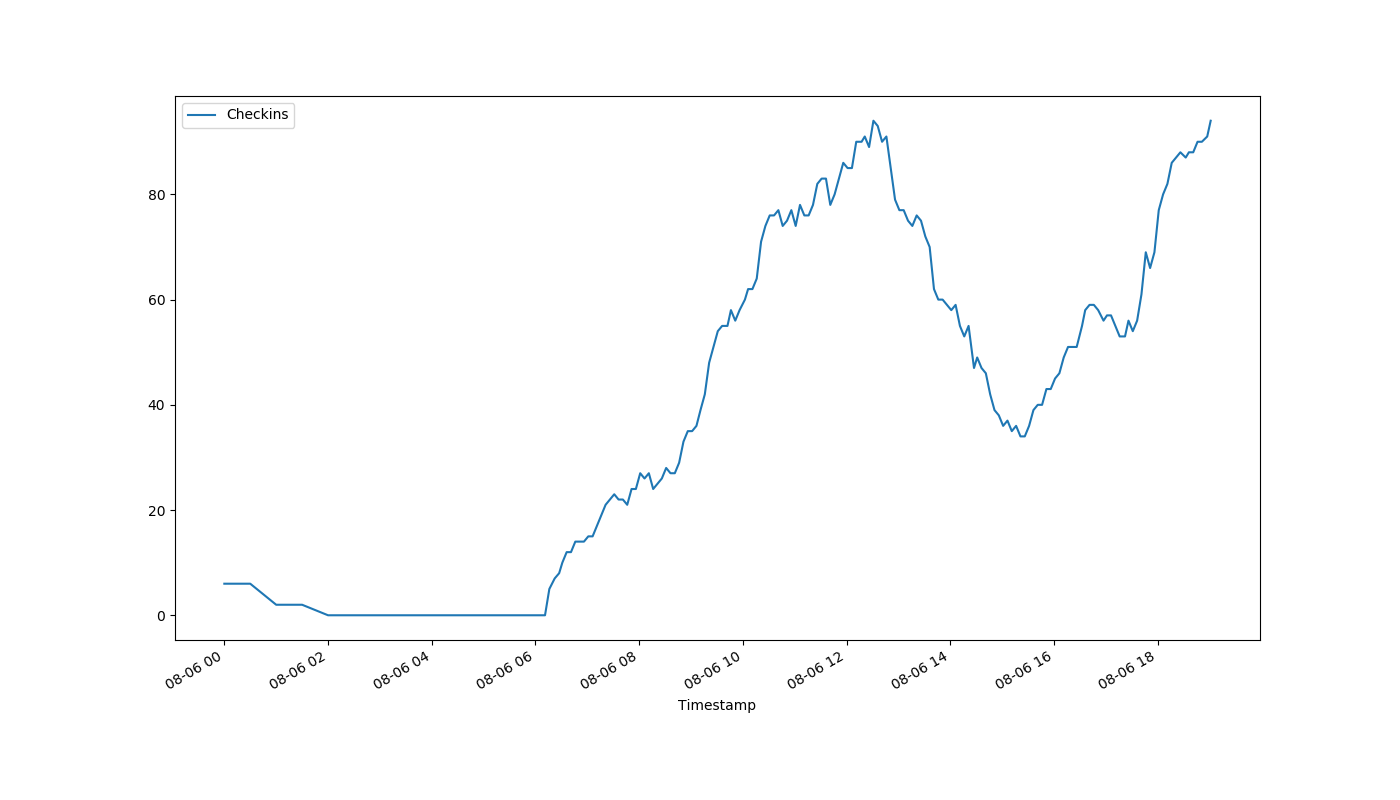
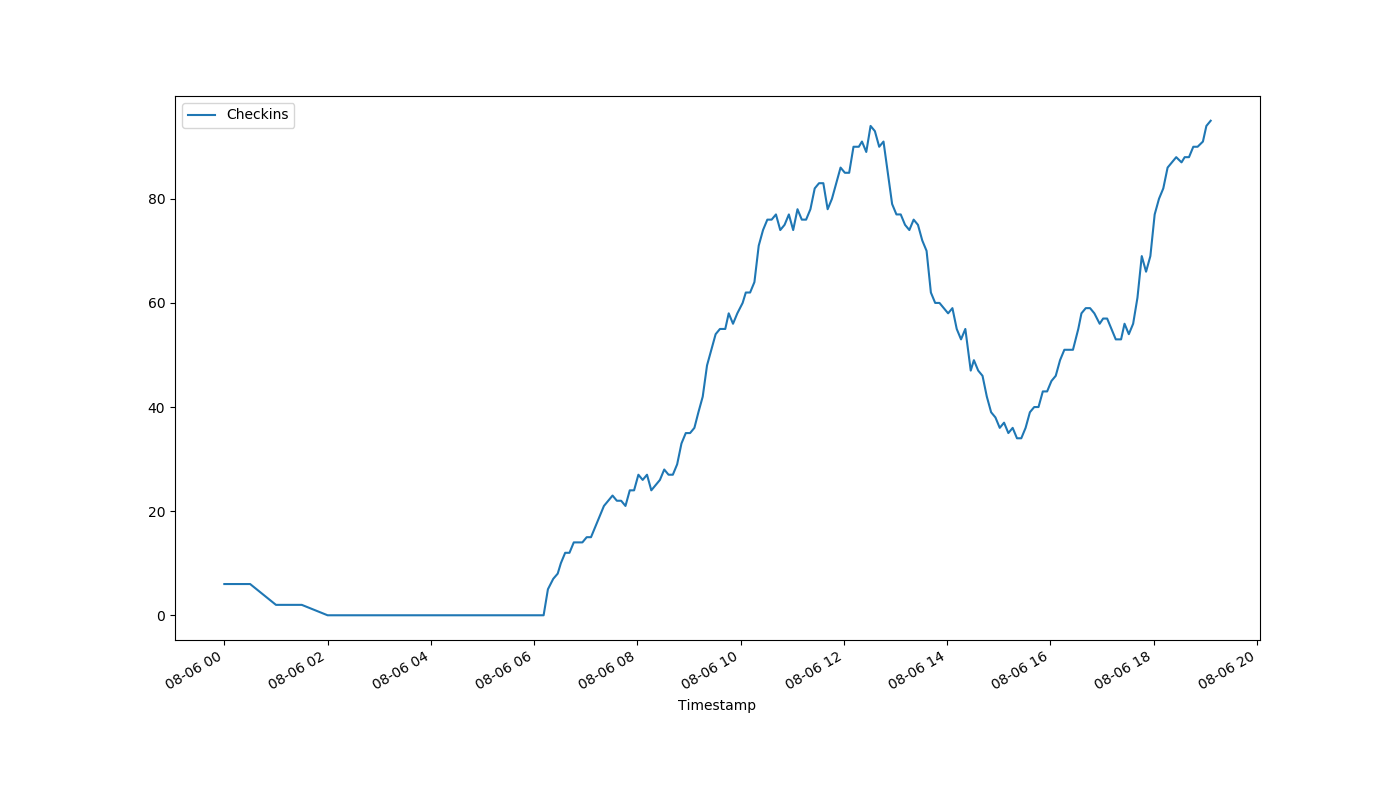
auto-Aug-06-19:08:51

diff --git a/index.html b/index.html
@@ -1,1 +1,1 @@
-<!DOCTYPE html><html><head><meta http-equiv="refresh" content="30"><link rel='stylesheet' href='holmcurrent.css'></head><body><p id='count'>94</p><div id='graph-wrap'><img id='graph' src='holmgraph-Aug-06.png'></div><p id='updated'>Last updated 19:02:04 / 19:01:19</p></body></html>
+<!DOCTYPE html><html><head><meta http-equiv="refresh" content="30"><link rel='stylesheet' href='holmcurrent.css'></head><body><p id='count'>95</p><div id='graph-wrap'><img id='graph' src='holmgraph-Aug-06.png'></div><p id='updated'>Last updated 19:07:05 / 19:06:19</p></body></html>
